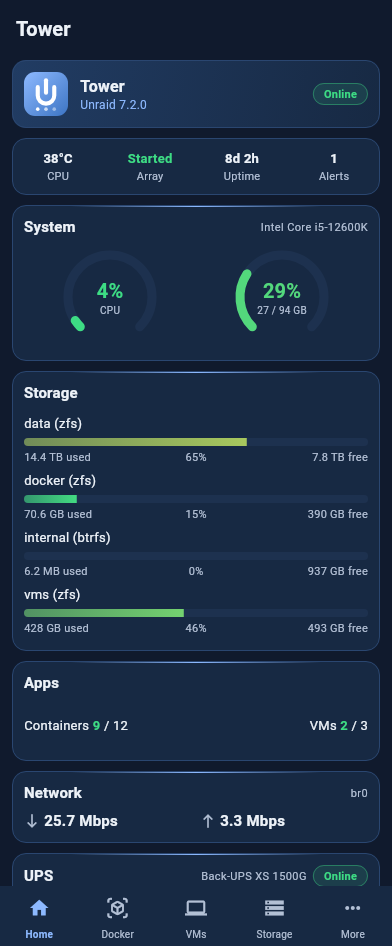
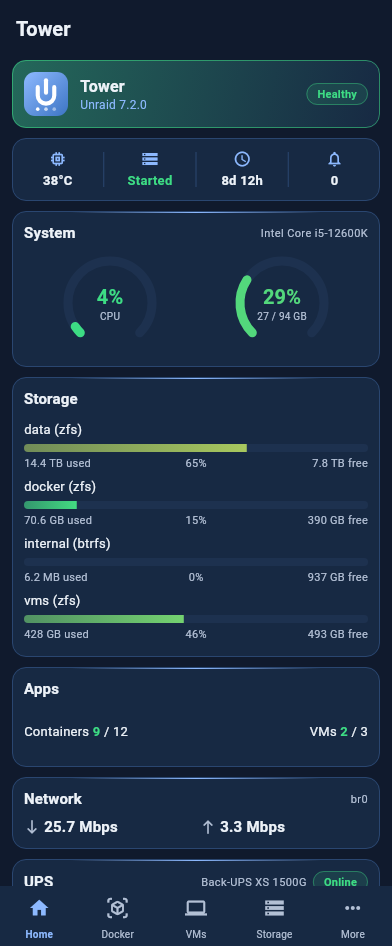
README: health card, new screenshots
Describes the Home health card and adds a screenshot of a Warning card
with its reasons; all screenshots re-rendered from 1.0.3 with demo data.

diff --git a/README.md b/README.md
@@ -1,11 +1,12 @@
 # urrt
 
-An Android remote for Unraid servers: server health at a glance, live network speeds, Docker containers and VMs you can start and stop, storage, drive temperatures and parity checks, a UPS card, the server's logs, and notifications. It uses your own server's official Unraid API: no account, no cloud relay, no tracking.
+An Android remote for Unraid servers: server health at a glance (a green, amber or red card that takes you to whatever needs attention), live network speeds, Docker containers and VMs you can start and stop, storage, drive temperatures and parity checks, a UPS card, the server's logs, and notifications. It uses your own server's official Unraid API: no account, no cloud relay, no tracking.
 
 This repository holds signed release builds only.
 
 <p>
-<img src="screenshots/home.png" width="220" alt="Home: server health, CPU and RAM gauges, storage, apps, network speeds and UPS">
+<img src="screenshots/home.png" width="220" alt="Home: a green Healthy server card, icon stats, CPU and RAM gauges, storage, apps, network speeds and UPS">
+<img src="screenshots/health.png" width="220" alt="Home: an amber Warning card listing its reasons, each one opening the screen that deals with it">
 <img src="screenshots/docker.png" width="220" alt="Docker: containers with live CPU and memory">
 <img src="screenshots/vms.png" width="220" alt="VMs: actions valid for each VM's state">
 <img src="screenshots/storage.png" width="220" alt="Storage: pools with their drives and temperatures, and the parity check">
@@ -41,6 +42,8 @@ With the Android SDK: `apksigner verify --print-certs urrt-<version>.apk`. The `
 - With app lock on, urrt hides its screen from the recent-apps view.
 
 ## Good to know
+
+- **Health card:** the server card on Home is green when all is well, amber for warnings (stale data, a stopped or rebuilding array, disk errors, hot drives, unread warnings, UPS on battery) and red for problems (array fault, disabled or missing disk, a drive at its limit, unread alerts, UPS low battery). It has no colour when urrt cannot read enough to judge. Tap it to go where the reason is handled: Notifications for unread alerts and warnings (archive them there), Storage for disks and drive temperatures.
 
 - **UPS card:** shown only when the UPS is set up in Unraid's UPS Settings (apcupsd). The Unraid API does not report a UPS monitored through the NUT plugin (requested upstream: https://github.com/unraid/api/issues/2115).
 - **Parity controls:** Check, Check and Correct, Pause, Resume and Cancel appear only on arrays with a parity disk. They have been tested against the API's replies but not yet on a real array, so use them with care.
